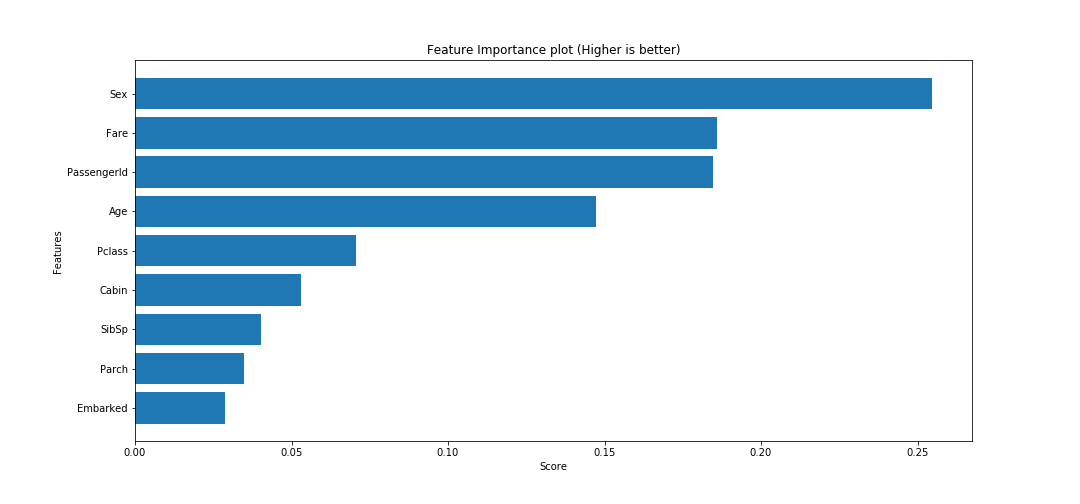
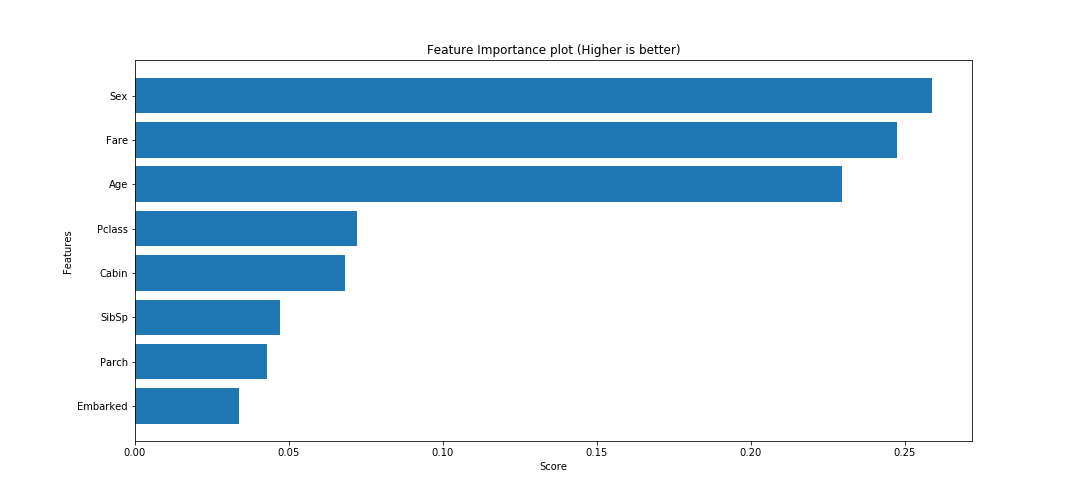
removes passengerid from feature list

diff --git a/src/data.py b/src/data.py
@@ -4,7 +4,7 @@ def munge_data(data):
     https://www.kaggle.com/akshat113/titanic-dataset-analysis-level-2
     """
     # Sex
-    data.drop(['Ticket', 'Name'], inplace=True, axis=1)
+    data.drop(['Ticket', 'Name', 'PassengerId'], inplace=True, axis=1)
     data.Sex.fillna('0', inplace=True)
     data.loc[data.Sex != 'male', 'Sex'] = 0
     data.loc[data.Sex == 'male', 'Sex'] = 1
